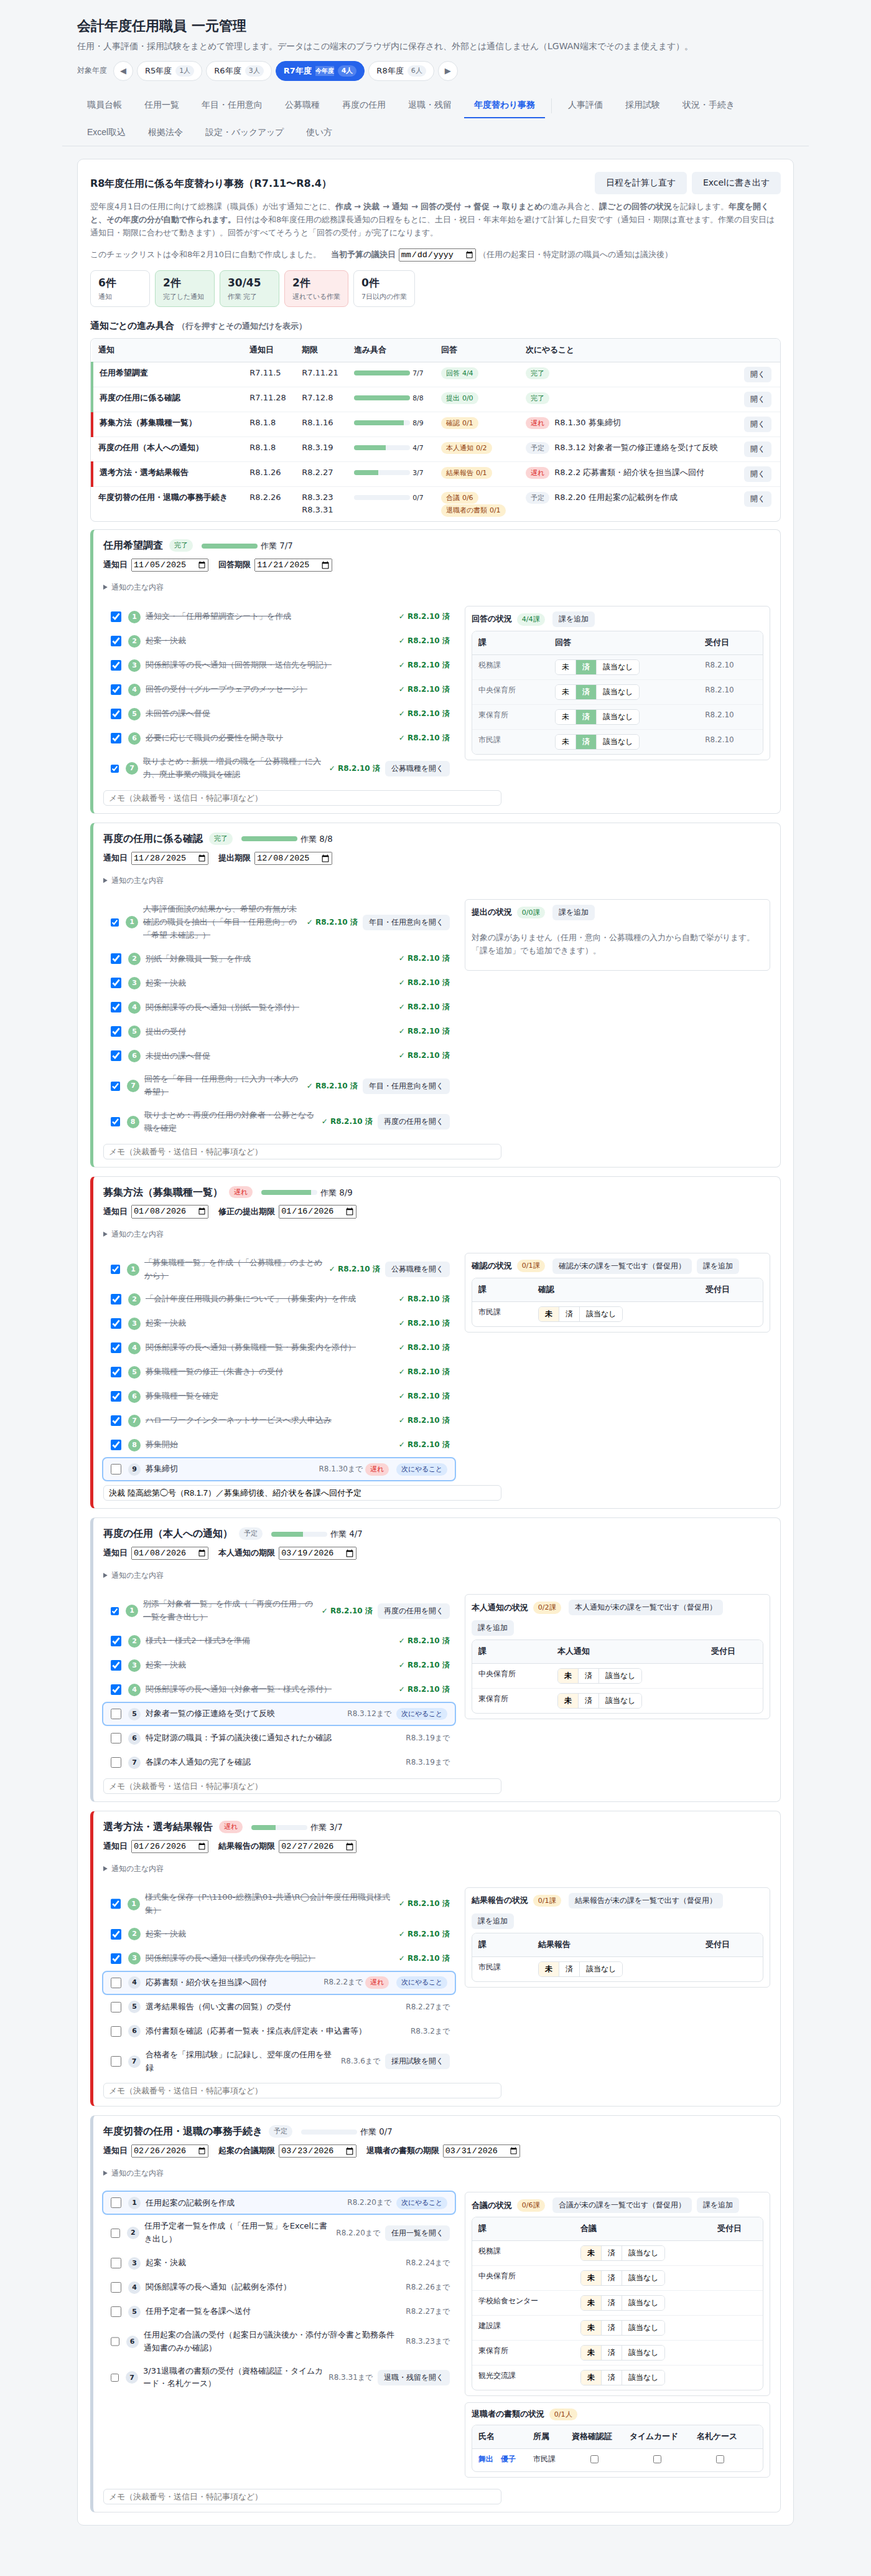
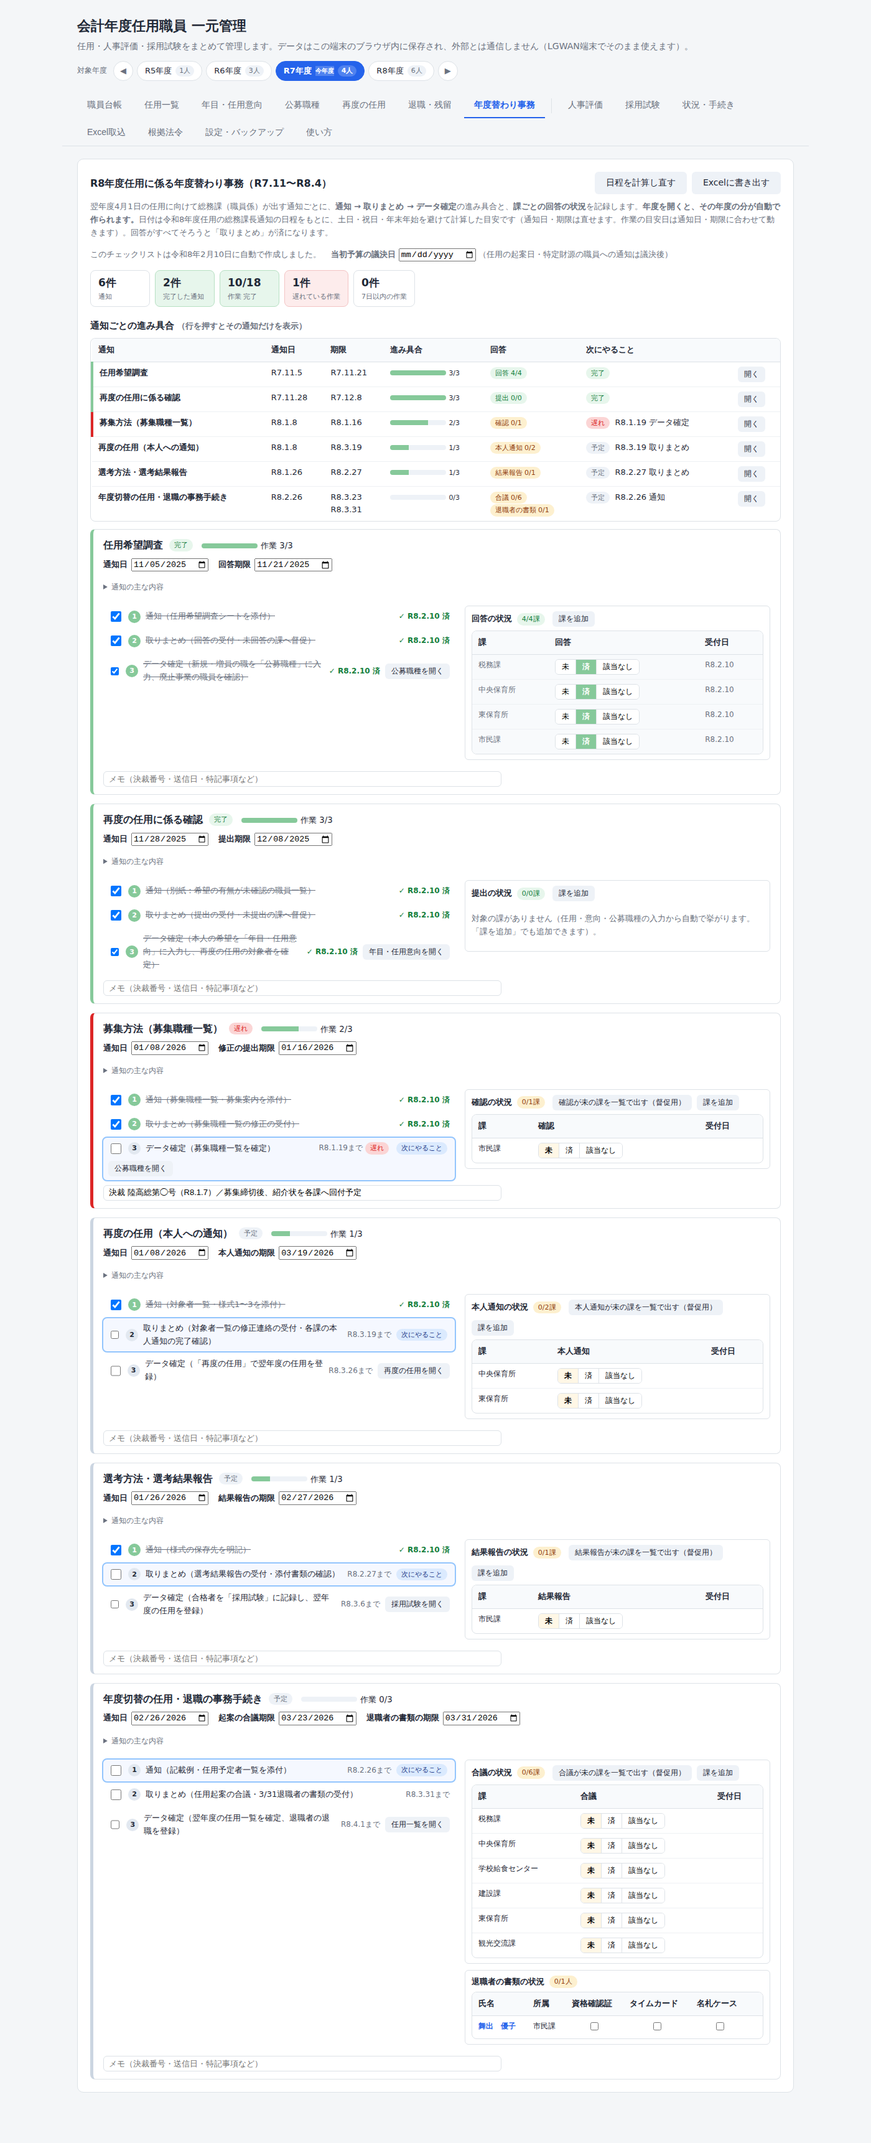
年度替わり事務の作業を通知・取りまとめ・データ確定の3工程にまとめる
Claude-Session: https://claude.ai/code/session_01TV6gLjN2w3tfB3MhK9eTKV

diff --git a/js/core.js b/js/core.js
@@ -1667,81 +1667,38 @@
    * steps[].at：['notice'|'due'|'due2', ずらす日数] または ['md', [月,日], 'before'|'after']
    * tracker：回答の受付状況を記録する相手（課・職員）の種類
    */
-  const KESSAI = (n) => [
-    { key: 'kessai', label: '起案・決裁', at: ['notice', -2] },
-    { key: 'hassin', label: `関係部課等の長へ通知（${n}）`, at: ['notice', 0] },
+  /** 通知 → 取りまとめ → データ確定 の3工程 */
+  const YE_STEPS = (notice, matome, kakutei, tabs = {}, matomeAt = ['due', 0], kakuteiAt = ['due', 7]) => [
+    { key: 'tsuchi', label: `通知（${notice}）`, at: ['notice', 0] },
+    { key: 'matome', label: `取りまとめ（${matome}）`, at: matomeAt, tab: tabs.matome },
+    { key: 'kakutei', label: `データ確定（${kakutei}）`, at: kakuteiAt, tab: tabs.kakutei },
   ];
   const YEAR_END_NOTICES = [
     { key: 'kibo', title: '任用希望調査', src: 'kibo', notice: [11, 5], due: [11, 21], dueLabel: '回答期限',
       points: ['翌年度に新たに任用を希望する職（職務内容等）と、今年度で廃止する事業の職員を「任用希望調査シート」で報告してもらう', '引き続き任用する職員（4会計年度目以降の公募を含む）は報告不要', 'グループウェアのメッセージで職員係へ送信'],
-      tracker: { type: 'all', label: '回答', step: 'kaito' },
-      steps: [
-        { key: 'sakusei', label: '通知文・「任用希望調査シート」を作成', at: ['notice', -7] },
-        ...KESSAI('回答期限・送信先を明記'),
-        { key: 'kaito', label: '回答の受付（グループウェアのメッセージ）', at: ['due', 0] },
-        { key: 'tokusoku', label: '未回答の課へ督促', at: ['due', 1] },
-        { key: 'kikitori', label: '必要に応じて職員の必要性を聞き取り', at: ['due', 5] },
-        { key: 'matome', label: '取りまとめ：新規・増員の職を「公募職種」に入力、廃止事業の職員を確認', at: ['due', 7], tab: 'recruit' },
-      ] },
+      tracker: { type: 'all', label: '回答', step: 'matome' },
+      steps: YE_STEPS('任用希望調査シートを添付', '回答の受付・未回答の課へ督促', '新規・増員の職を「公募職種」に入力、廃止事業の職員を確認', { kakutei: 'recruit' }) },
     { key: 'kakunin', title: '再度の任用に係る確認', src: 'kakunin', notice: [11, 28], due: [12, 8], dueLabel: '提出期限',
       points: ['人事評価面談の結果で、再度の任用の希望の有無が確認できなかった職員について、各課に本人へ確認してもらう', '任用開始から3会計年度目の職員は人事評価の結果による再度の任用の対象外（翌年度も任用するなら公募。再度の応募は可）'],
-      tracker: { type: 'wishMissing', label: '提出', step: 'kaito' },
-      steps: [
-        { key: 'chushutsu', label: '人事評価面談の結果から、希望の有無が未確認の職員を抽出（「年目・任用意向」の「希望 未確認」）', at: ['notice', -5], tab: 'intent' },
-        { key: 'ichiran', label: '別紙「対象職員一覧」を作成', at: ['notice', -3] },
-        ...KESSAI('別紙一覧を添付'),
-        { key: 'kaito', label: '提出の受付', at: ['due', 0] },
-        { key: 'tokusoku', label: '未提出の課へ督促', at: ['due', 1] },
-        { key: 'nyuryoku', label: '回答を「年目・任用意向」に入力（本人の希望）', at: ['due', 3], tab: 'intent' },
-        { key: 'matome', label: '取りまとめ：再度の任用の対象者・公募となる職を確定', at: ['due', 10], tab: 'reappoint' },
-      ] },
+      tracker: { type: 'wishMissing', label: '提出', step: 'matome' },
+      steps: YE_STEPS('別紙：希望の有無が未確認の職員一覧', '提出の受付・未提出の課へ督促', '本人の希望を「年目・任用意向」に入力し、再度の任用の対象者を確定', { kakutei: 'intent' }) },
     { key: 'boshu', title: '募集方法（募集職種一覧）', src: 'boshu', notice: [1, 8], due: [1, 16], dueLabel: '修正の提出期限',
       points: ['選考スケジュール：募集 1/22〜1/30、選考 2/2〜2/20、合否通知・結果報告 2/27', '募集はハローワークインターネットサービスへの求人申込み', '募集職種一覧に加筆修正があれば朱書き訂正して提出してもらう', '募集人数に達した場合は受付期間内でも締め切ってよい'],
-      tracker: { type: 'recruit', label: '確認', step: 'kaito' },
-      steps: [
-        { key: 'ichiran', label: '「募集職種一覧」を作成（「公募職種」のまとめから）', at: ['notice', -10], tab: 'recruit' },
-        { key: 'annai', label: '「会計年度任用職員の募集について」（募集案内）を作成', at: ['notice', -7] },
-        ...KESSAI('募集職種一覧・募集案内を添付'),
-        { key: 'kaito', label: '募集職種一覧の修正（朱書き）の受付', at: ['due', 0] },
-        { key: 'kakutei', label: '募集職種一覧を確定', at: ['due', 2] },
-        { key: 'hw', label: 'ハローワークインターネットサービスへ求人申込み', at: ['md', [1, 21], 'before'] },
-        { key: 'kaishi', label: '募集開始', at: ['md', [1, 22], 'after'] },
-        { key: 'shimekiri', label: '募集締切', at: ['md', [1, 30], 'before'] },
-      ] },
+      tracker: { type: 'recruit', label: '確認', step: 'matome' },
+      steps: YE_STEPS('募集職種一覧・募集案内を添付', '募集職種一覧の修正の受付', '募集職種一覧を確定', { kakutei: 'recruit' }, ['due', 0], ['due', 2]) },
     { key: 'saido', title: '再度の任用（本人への通知）', src: 'saido', notice: [1, 8], due: [3, 19], dueLabel: '本人通知の期限',
       points: ['各課から現職員へ、様式1（行う）・様式2（行わない）・様式3（対象外：3会計年度目）で通知してもらう', '予算の議決までは再度の任用となる見込みとして扱う', '特定財源で人件費を措置している職員は、予算の議決後に通知', '総務課合議は不要。対象者一覧に修正があれば連絡してもらう'],
-      tracker: { type: 'reappoint', label: '本人通知', step: 'kakunin' },
-      steps: [
-        { key: 'ichiran', label: '別添「対象者一覧」を作成（「再度の任用」の一覧を書き出し）', at: ['notice', -7], tab: 'reappoint' },
-        { key: 'yoshiki', label: '様式1・様式2・様式3を準備', at: ['notice', -5] },
-        ...KESSAI('対象者一覧・様式を添付'),
-        { key: 'shusei', label: '対象者一覧の修正連絡を受けて反映', at: ['due', -7] },
-        { key: 'tokutei', label: '特定財源の職員：予算の議決後に通知されたか確認', at: ['due', 0] },
-        { key: 'kakunin', label: '各課の本人通知の完了を確認', at: ['due', 0] },
-      ] },
+      tracker: { type: 'reappoint', label: '本人通知', step: 'matome' },
+      steps: YE_STEPS('対象者一覧・様式1〜3を添付', '対象者一覧の修正連絡の受付・各課の本人通知の完了確認', '「再度の任用」で翌年度の任用を登録', { kakutei: 'reappoint' }) },
     { key: 'senko', title: '選考方法・選考結果報告', src: 'senko', notice: [1, 26], due: [2, 27], dueLabel: '結果報告の期限',
       points: ['書類審査（書類審査採点表）又は面接審査（面接評定表）。どちらにするかは各課が判断', '面接の日程は各課が申込者と調整。併願者は担当課間で調整（紹介状は併願数分）', '結果報告に添付：応募者一覧表、採点表又は評定表、応募者全員の応募申込書・職務等経歴書（必要に応じて資格証の写し）'],
-      tracker: { type: 'recruit', label: '結果報告', step: 'kaito' },
-      steps: [
-        { key: 'yoshiki', label: '様式集を保存（P:\\1100-総務課\\01-共通\\R◯会計年度任用職員様式集）', at: ['notice', -3] },
-        ...KESSAI('様式の保存先を明記'),
-        { key: 'kaifu', label: '応募書類・紹介状を担当課へ回付', at: ['md', [2, 2], 'after'] },
-        { key: 'kaito', label: '選考結果報告（伺い文書の回覧）の受付', at: ['due', 0] },
-        { key: 'tenpu', label: '添付書類を確認（応募者一覧表・採点表/評定表・申込書等）', at: ['due', 2] },
-        { key: 'gokaku', label: '合格者を「採用試験」に記録し、翌年度の任用を登録', at: ['due', 7], tab: 'exam' },
-      ] },
+      tracker: { type: 'recruit', label: '結果報告', step: 'matome' },
+      steps: YE_STEPS('様式の保存先を明記', '選考結果報告の受付・添付書類の確認', '合格者を「採用試験」に記録し、翌年度の任用を登録', { kakutei: 'exam' }) },
     { key: 'kirikae', title: '年度切替の任用・退職の事務手続き', src: 'kirikae', notice: [2, 26], due: [3, 23], dueLabel: '起案の合議期限', due2: [3, 31], due2Label: '退職者の書類の期限',
       points: ['4/1付け任用（再度の任用を含む）は、記載例・任用予定者一覧を参考に起案して総務課へ合議', '起案日は当初予算の議決後の日付。添付は辞令書・勤務条件通知書のみ（履歴書等は不要）', '3/31付け退職者は、資格確認証（マイナ保険証未取得の場合）・タイムカード・名札ケースを提出'],
-      tracker: { type: 'kian', label: '合議', step: 'kaito' },
-      tracker2: { type: 'retire', label: '退職者の書類', step: 'taishoku', items: ['資格確認証', 'タイムカード', '名札ケース'] },
-      steps: [
-        { key: 'kisairei', label: '任用起案の記載例を作成', at: ['notice', -5] },
-        { key: 'yotei', label: '任用予定者一覧を作成（「任用一覧」をExcelに書き出し）', at: ['notice', -3], tab: 'appoint' },
-        ...KESSAI('記載例を添付'),
-        { key: 'soufu', label: '任用予定者一覧を各課へ送付', at: ['notice', 1] },
-        { key: 'kaito', label: '任用起案の合議の受付（起案日が議決後か・添付が辞令書と勤務条件通知書のみか確認）', at: ['due', 0] },
-        { key: 'taishoku', label: '3/31退職者の書類の受付（資格確認証・タイムカード・名札ケース）', at: ['due2', 0], tab: 'retire' },
-      ] },
+      tracker: { type: 'kian', label: '合議', step: 'matome' },
+      tracker2: { type: 'retire', label: '退職者の書類', step: 'matome', items: ['資格確認証', 'タイムカード', '名札ケース'] },
+      steps: YE_STEPS('記載例・任用予定者一覧を添付', '任用起案の合議・3/31退職者の書類の受付', '翌年度の任用一覧を確定、退職者の退職を登録', { kakutei: 'appoint' }, ['due2', 0], ['due2', 1]) },
   ];
   function yearEndNoticeDates(targetFy, n) {
     return {
@@ -1763,8 +1720,8 @@
     if (!data.yearEnd || typeof data.yearEnd !== 'object') data.yearEnd = {};
     let list = data.yearEnd[targetFy];
     let changed = false;
-    if (!list || list.version !== 2) {
-      list = data.yearEnd[targetFy] = { version: 2, createdAt: toISO(new Date()), budgetDate: '', notices: {} };
+    if (!list || list.version !== 3) {
+      list = data.yearEnd[targetFy] = { version: 3, createdAt: toISO(new Date()), budgetDate: '', notices: {} };
       changed = true;
     }
     for (const n of YEAR_END_NOTICES) {

diff --git a/index.html b/index.html
@@ -209,7 +209,7 @@
           <button class="btn-secondary" id="btn-yearend-export">Excelに書き出す</button>
         </div>
       </div>
-      <p class="hint">翌年度4月1日の任用に向けて総務課（職員係）が出す通知ごとに、<strong>作成 → 決裁 → 通知 → 回答の受付 → 督促 → 取りまとめ</strong>の進み具合と、<strong>課ごとの回答の状況</strong>を記録します。<strong>年度を開くと、その年度の分が自動で作られます。</strong>日付は令和8年度任用の総務課長通知の日程をもとに、土日・祝日・年末年始を避けて計算した目安です（通知日・期限は直せます。作業の目安日は通知日・期限に合わせて動きます）。回答がすべてそろうと「回答の受付」が完了になります。</p>
+      <p class="hint">翌年度4月1日の任用に向けて総務課（職員係）が出す通知ごとに、<strong>通知 → 取りまとめ → データ確定</strong>の進み具合と、<strong>課ごとの回答の状況</strong>を記録します。<strong>年度を開くと、その年度の分が自動で作られます。</strong>日付は令和8年度任用の総務課長通知の日程をもとに、土日・祝日・年末年始を避けて計算した目安です（通知日・期限は直せます。作業の目安日は通知日・期限に合わせて動きます）。回答がすべてそろうと「取りまとめ」が済になります。</p>
       <p id="yearend-created" class="hint"></p>
       <div id="yearend-summary" class="mini-stats"></div>
       <h3>通知ごとの進み具合 <small class="muted">（行を押すとその通知だけを表示）</small></h3>

diff --git a/js/app.js b/js/app.js
@@ -2231,7 +2231,7 @@ function renderYearEnd() {
         <td>${yeDate(n.dates.due)}${n.dates.due2 ? `<br>${yeDate(n.dates.due2)}` : ''}</td>
         <td class="ye-prog">${yeBar(n.done, n.total)} <small>${n.done}/${n.total}</small></td>
         <td>${trs.map((tr) => `<span class="badge ${tr.done === tr.total ? 'st-ok' : 'st-warn'}">${escapeHtml(tr.label)} ${tr.done}/${tr.total}</span>`).join('<br>') || '<span class="muted">-</span>'}</td>
-        <td>${n.next ? `<span class="badge ${cls}">${label}</span> ${yeDate(n.next.date)} ${escapeHtml(n.next.label)}` : '<span class="badge st-ok">完了</span>'}</td>
+        <td>${n.next ? `<span class="badge ${cls}">${label}</span> ${yeDate(n.next.date)} ${escapeHtml(n.next.label.replace(/（.*$/, ''))}` : '<span class="badge st-ok">完了</span>'}</td>
         <td><button class="btn-small">開く</button></td></tr>`;
     }),
   );
@@ -2288,9 +2288,8 @@ function renderYearEnd() {
   // 回答の受付：全部そろったら受付の作業を完了にする
   const autoStep = (key) => {
     const n = C.yearEndView(DATA, target, t, DATA.settings).find((x) => x.key === key);
-    for (const tr of [n.tracker, n.tracker2].filter(Boolean)) {
-      if (tr.total && tr.done === tr.total && !rec(key).steps[tr.step]) rec(key).steps[tr.step] = t;
-    }
+    const trs = [n.tracker, n.tracker2].filter(Boolean);
+    if (trs.length && trs.every((tr) => tr.total && tr.done === tr.total) && !rec(key).steps.matome) rec(key).steps.matome = t;
   };
   root.querySelectorAll('[data-ye-resp]').forEach((el) => (el.onclick = () => {
     const [k, dept, v] = el.dataset.yeResp.split('|');

diff --git a/style.css b/style.css
@@ -604,3 +604,5 @@ td.center { text-align: center; }
 .ye-memo { font-size: 13px; padding: 4px 8px; border: 1px solid var(--border); border-radius: 6px; max-width: 640px; }
 .ye-remind { width: 100%; font-size: 13px; }
 .ye-notice[hidden] { display: none; }
+#yearend-overview td:nth-child(5) .badge { white-space: nowrap; }
+#yearend-overview td:nth-child(6) { min-width: 200px; }

diff --git a/README.md b/README.md
@@ -18,7 +18,7 @@
 | 公募職種 | 残らない職員・3年目の職員の職（自動）と、新規・増員の職（手入力）を整理し、職ごとに公募する／しないを決定。所属・業務内容・区分ごとの募集人数をまとめ、採用試験を作成 |
 | 再度の任用 | 可否「可」・本人「希望する」・4年目にならない職員の一覧。チェックして翌年度に一括登録、Excel出力 |
 | 退職・残留 | 翌年度に残る人・残らない人の一覧と件数。任期満了・自己都合などの退職登録（年度途中は任期を短縮）と退職手続きのチェック（申送事項「退職処理」） |
-| 年度替わり事務 | 総務課（職員係）が出す通知ごと（任用希望調査／再度の任用に係る確認／募集方法／再度の任用／選考方法／年度切替の事務手続き）に、作成→決裁→通知→回答の受付→督促→取りまとめの進み具合と、課ごとの回答の状況（未・済・該当なし。退職者は資格確認証・タイムカード・名札ケース）を記録。**年度を開くと自動で作成**。日付は令和8年度任用の総務課長通知の日程をもとに土日・祝日・年末年始を避けて計算（変更可）。次にやる作業は「状況・手続き」にも表示 |
+| 年度替わり事務 | 総務課（職員係）が出す通知ごと（任用希望調査／再度の任用に係る確認／募集方法／再度の任用／選考方法／年度切替の事務手続き）に、通知→取りまとめ→データ確定の進み具合と、課ごとの回答の状況（未・済・該当なし。退職者は資格確認証・タイムカード・名札ケース）を記録。**年度を開くと自動で作成**。日付は令和8年度任用の総務課長通知の日程をもとに土日・祝日・年末年始を避けて計算（変更可）。次にやる作業は「状況・手続き」にも表示 |
 | 人事評価 | 年度ごとの評価項目・総合評価・所見の入力 |
 | 採用試験 | 競争試験／選考の登録、応募者、得点・順位、合格者の提出書類、合格者を台帳・任用へ登録 |
 | 状況・手続き | 年度別の状況、今後90日の手続き（退手・共済の切替など）、来年4月に公募が必要な職員、年間スケジュール |
